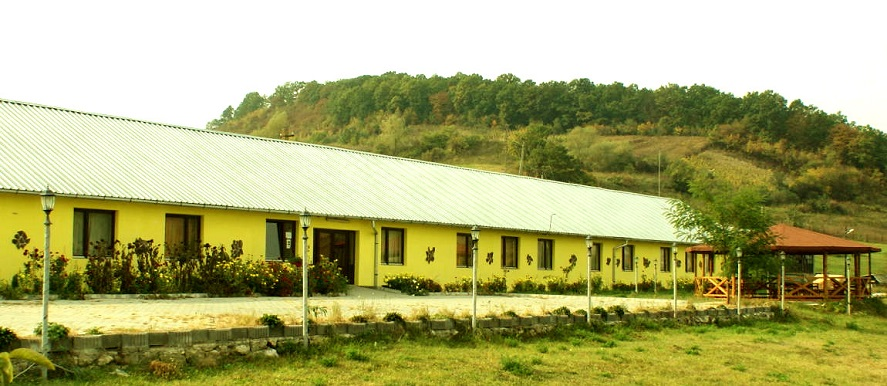
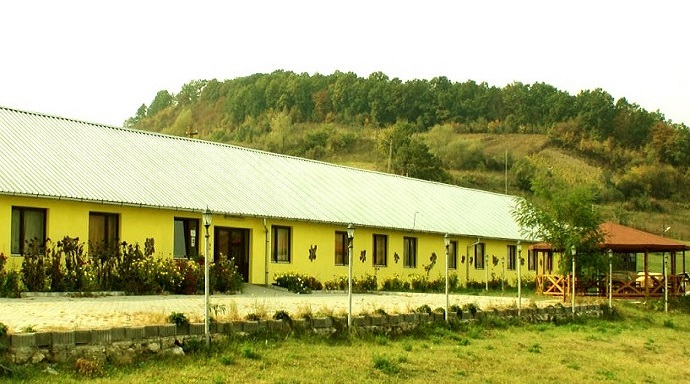
updates

diff --git a/contact.html b/contact.html
@@ -9,7 +9,7 @@
     <meta name="description" content="">
     <meta name="author" content="">
 
-    <title>Contact - Business Casual - Start Bootstrap Theme</title>
+    <title>Vinurile "Plebanos"</title>
 
     <!-- Bootstrap Core CSS -->
     <link href="css/bootstrap.min.css" rel="stylesheet">
@@ -28,48 +28,19 @@
         <script src="https://oss.maxcdn.com/libs/respond.js/1.4.2/respond.min.js"></script>
     <![endif]-->
 
+    <!-- jQuery -->
+    <script src="js/jquery.js"></script>
+    <script>
+        $(function(){
+        $("#head").load("_head.html"); 
+        $("#foot").load("_foot.html"); 
+        });  
+    </script>
 </head>
 
 <body>
-
-    <div class="brand">Business Casual</div>
-    <div class="address-bar">3481 Melrose Place | Beverly Hills, CA 90210 | 123.456.7890</div>
-
-    <!-- Navigation -->
-    <nav class="navbar navbar-default" role="navigation">
-        <div class="container">
-            <!-- Brand and toggle get grouped for better mobile display -->
-            <div class="navbar-header">
-                <button type="button" class="navbar-toggle" data-toggle="collapse" data-target="#bs-example-navbar-collapse-1">
-                    <span class="sr-only">Toggle navigation</span>
-                    <span class="icon-bar"></span>
-                    <span class="icon-bar"></span>
-                    <span class="icon-bar"></span>
-                </button>
-                <!-- navbar-brand is hidden on larger screens, but visible when the menu is collapsed -->
-                <a class="navbar-brand" href="index.html">Business Casual</a>
-            </div>
-            <!-- Collect the nav links, forms, and other content for toggling -->
-            <div class="collapse navbar-collapse" id="bs-example-navbar-collapse-1">
-                <ul class="nav navbar-nav">
-                    <li>
-                        <a href="index.html">Home</a>
-                    </li>
-                    <li>
-                        <a href="about.html">About</a>
-                    </li>
-                    <li>
-                        <a href="blog.html">Blog</a>
-                    </li>
-                    <li>
-                        <a href="contact.html">Contact</a>
-                    </li>
-                </ul>
-            </div>
-            <!-- /.navbar-collapse -->
-        </div>
-        <!-- /.container -->
-    </nav>
+<!-- include upper menu header and navigation -->
+<div id="head"></div>
 
     <div class="container">
 
@@ -78,24 +49,24 @@
                 <div class="col-lg-12">
                     <hr>
                     <h2 class="intro-text text-center">Contact
-                        <strong>business casual</strong>
+                        <strong>CRAMELE "LOGOS"</strong>
                     </h2>
                     <hr>
                 </div>
                 <div class="col-md-8">
                     <!-- Embedded Google Map using an iframe - to select your location find it on Google maps and paste the link as the iframe src. If you want to use the Google Maps API instead then have at it! -->
-                    <iframe width="100%" height="400" frameborder="0" scrolling="no" marginheight="0" marginwidth="0" src="http://maps.google.com/maps?hl=en&amp;ie=UTF8&amp;ll=37.0625,-95.677068&amp;spn=56.506174,79.013672&amp;t=m&amp;z=4&amp;output=embed"></iframe>
+                    <iframe width="100%" height="400" frameborder="0" scrolling="no" marginheight="0" marginwidth="0" src="http://maps.google.com/maps?hl=en&amp;ie=UTF8&amp;ll=46.3228057,23.6773083&amp;spn=56.506174,79.013672&amp;t=m&amp;z=16&amp;output=embed"></iframe>
                 </div>
                 <div class="col-md-4">
-                    <p>Phone:
-                        <strong>123.456.7890</strong>
+                    <p>Tel:
+                        <strong>0728 831 735, 0731 013 571</strong>
                     </p>
                     <p>Email:
                         <strong><a href="mailto:name@example.com">name@example.com</a></strong>
                     </p>
-                    <p>Address:
-                        <strong>3481 Melrose Place
-                            <br>Beverly Hills, CA 90210</strong>
+                    <p>Adresa:
+                        <strong>str. Abrudului, nr.10, Aiud
+                            <br>jud. Alba, 515200</strong>
                     </p>
                 </div>
                 <div class="clearfix"></div>
@@ -106,33 +77,33 @@
             <div class="box">
                 <div class="col-lg-12">
                     <hr>
-                    <h2 class="intro-text text-center">Contact
-                        <strong>form</strong>
+                    <h2 class="intro-text text-center">Formular de
+                        <strong> contact</strong>
                     </h2>
                     <hr>
-                    <p>Lorem ipsum dolor sit amet, consectetur adipisicing elit. Fugiat, vitae, distinctio, possimus repudiandae cupiditate ipsum excepturi dicta neque eaque voluptates tempora veniam esse earum sapiente optio deleniti consequuntur eos voluptatem.</p>
+                    <p>Primim cu placere mesajul dumneavoastra</p>
                     <form role="form">
                         <div class="row">
                             <div class="form-group col-lg-4">
-                                <label>Name</label>
+                                <label>Nume</label>
                                 <input type="text" class="form-control">
                             </div>
                             <div class="form-group col-lg-4">
-                                <label>Email Address</label>
+                                <label>Email</label>
                                 <input type="email" class="form-control">
                             </div>
                             <div class="form-group col-lg-4">
-                                <label>Phone Number</label>
+                                <label>Telefon</label>
                                 <input type="tel" class="form-control">
                             </div>
                             <div class="clearfix"></div>
                             <div class="form-group col-lg-12">
-                                <label>Message</label>
+                                <label>Mesaj</label>
                                 <textarea class="form-control" rows="6"></textarea>
                             </div>
                             <div class="form-group col-lg-12">
                                 <input type="hidden" name="save" value="contact">
-                                <button type="submit" class="btn btn-default">Submit</button>
+                                <button type="submit" class="btn btn-default">Trimite mesajul</button>
                             </div>
                         </div>
                     </form>
@@ -143,21 +114,10 @@
     </div>
     <!-- /.container -->
 
-    <footer>
-        <div class="container">
-            <div class="row">
-                <div class="col-lg-12 text-center">
-                    <p>Copyright &copy; Your Website 2014</p>
-                </div>
-            </div>
-        </div>
-    </footer>
-
-    <!-- jQuery -->
-    <script src="js/jquery.js"></script>
+<div id="foot"></div>
 
     <!-- Bootstrap Core JavaScript -->
-    <script src="js/bootstrap.min.js"></script>
+<script src="js/bootstrap.min.js"></script>
 
 </body>
 

diff --git a/index.html b/index.html
@@ -103,7 +103,7 @@
                     <p>Renumitele vinuri Plebanos si-au castigat faima datorita soiurilor nobile de vita-de-vie si a prelucrarii dupa o reteta traditionala.</p>
                     <p>Hostelul Doua Salcii va invita sa petreceti clipe de neuitat si, de asemenea, sa degustati vinul "PLEBANOS" la crama noastra.</p>
                     <p>Lorem ipsum dolor sit amet, consectetur adipiscing elit. Nunc placerat diam quis nisl vestibulum dignissim. In hac habitasse platea dictumst. Interdum et malesuada fames ac ante ipsum primis in faucibus. Pellentesque habitant morbi tristique senectus et netus et malesuada fames ac turpis egestas.</p>
-                    <a href="crama.html" class="btn btn-default btn-lg btn-right">Citeste mai mult</a>
+                    <a href="vinurile.html" class="btn btn-default btn-lg btn-right">Citeste mai mult</a>
                 </div>
             </div>
         </div>
@@ -117,9 +117,13 @@
                     </h2>
                     <hr>
                     <img class="img-thumbnail img-right" src="img/pivnitele_logos.jpg" alt="pivnitele logos">
-                    <p>Pivnitele "Logos" din Aiud va poftesc la o degustare de vinuri "Plebanos" eventual insotite de o tacanita de vanat.</p>                   
-                    <p>Lorem ipsum dolor sit amet, consectetur adipiscing elit. Nunc placerat diam quis nisl vestibulum dignissim. In hac habitasse platea dictumst. Interdum et malesuada fames ac ante ipsum primis in faucibus. Pellentesque habitant morbi tristique senectus et netus et malesuada fames ac turpis egestas.</p>
-                    <a href="vinurile.html" class="btn btn-default btn-lg btn-right">Citeste mai mult</a>
+                    <p>Pivnitele "Logos" din Aiud va poftesc la o degustare de vinuri "Plebanos" eventual insotite de o tacanita de vanat.</p> 
+                    <p>Lorem ipsum dolor sit amet, consectetur adipiscing elit. Nunc placerat diam quis nisl vestibulum dignissim. In hac habitasse platea dictumst. Interdum et malesuada fames ac ante ipsum primis in faucibus. Pellentesque habitant morbi tristique senectus et netus et malesuada fames ac turpis egestas.</p>                  
+                    <h3 class="brand-before text-left">Noutati!</h3>
+                    <p>Degustare de vinuri<br>
+                    6 soiuri = 6 euro
+                    6 soiuri + tocanita de vanat = 12 euro</p>
+                    <a href="crama.html" class="btn btn-default btn-lg btn-right">Citeste mai mult</a>
                 </div>
             </div>
         </div>

diff --git a/crama.html b/crama.html
@@ -74,19 +74,19 @@
                     <hr>
                 </div>
                 <div class="col-sm-4 text-center">
-                    <img class="img-responsive" src="http://placehold.it/750x450" alt="">
+                    <img class="img-responsive" src="img/ansamblu.jpg" alt="">
                     <h3>
                         <small>Zona placuta</small>
                     </h3>
                 </div>
                 <div class="col-sm-4 text-center">
-                    <img class="img-responsive" src="http://placehold.it/750x450" alt="">
+                    <img class="img-responsive" src="img/p-logos-hol.jpg" alt="">
                     <h3>
                         <small>ambianta eleganta si curata</small>
                     </h3>
                 </div>
                 <div class="col-sm-4 text-center">
-                    <img class="img-responsive" src="http://placehold.it/750x450" alt="">
+                    <img class="img-responsive" src="img/vinuri.jpg" alt="">
                     <h3>
                         <small>degustare de vinuri</small>
                     </h3>

diff --git a/_head.html b/_head.html
@@ -1,5 +1,5 @@
 <div class="brand">Vinurile "Pl&eacute;b&aacute;nos"</div>
-<div class="address-bar">Cramele "LOGOS" | Str. Aiudului, nr.10, Aiud, jud. Alba | Tel. 0728 831 735</div>
+<div class="address-bar">Cramele "LOGOS" | Str. Abrudului, nr.10, Aiud, jud. Alba | Tel. 0728 831 735</div>
 <div class="address-bar-right">
     <ul class="list-inline">
         <li><a href="index.html"><img src="/img/flag-ro.png" style="max-width: 36px; margin-top: -50px; margin-right: 10px;"></a></li>
